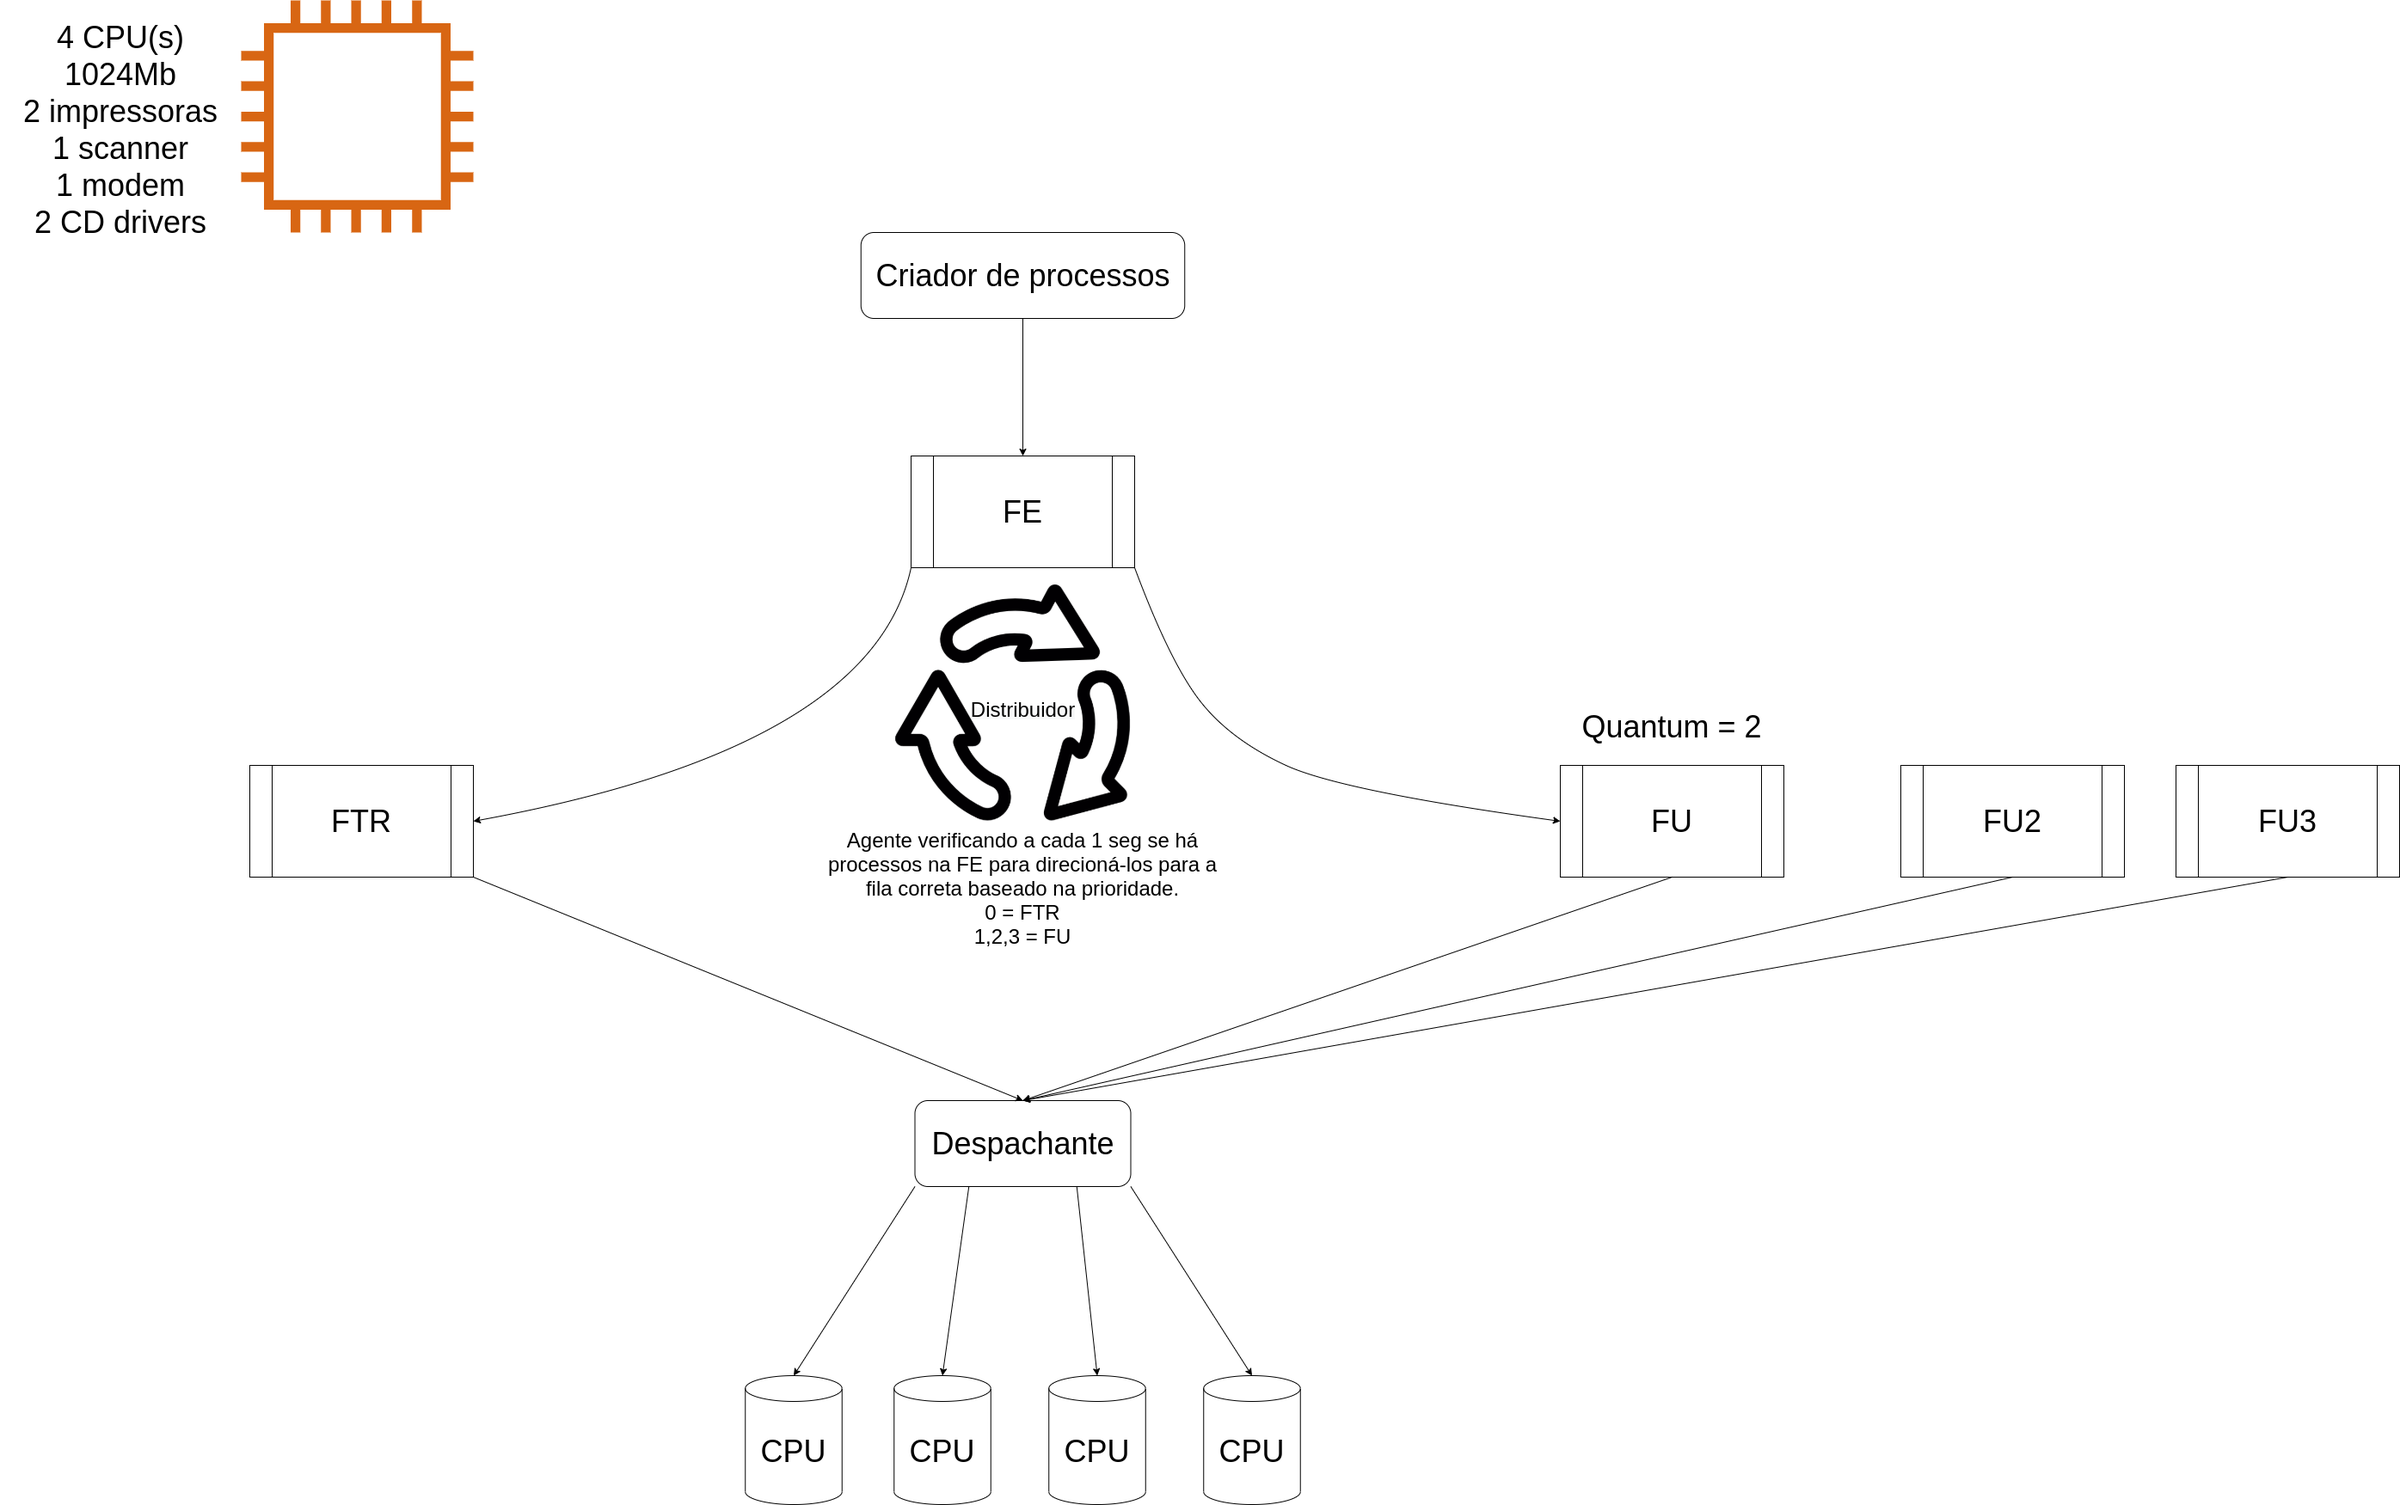
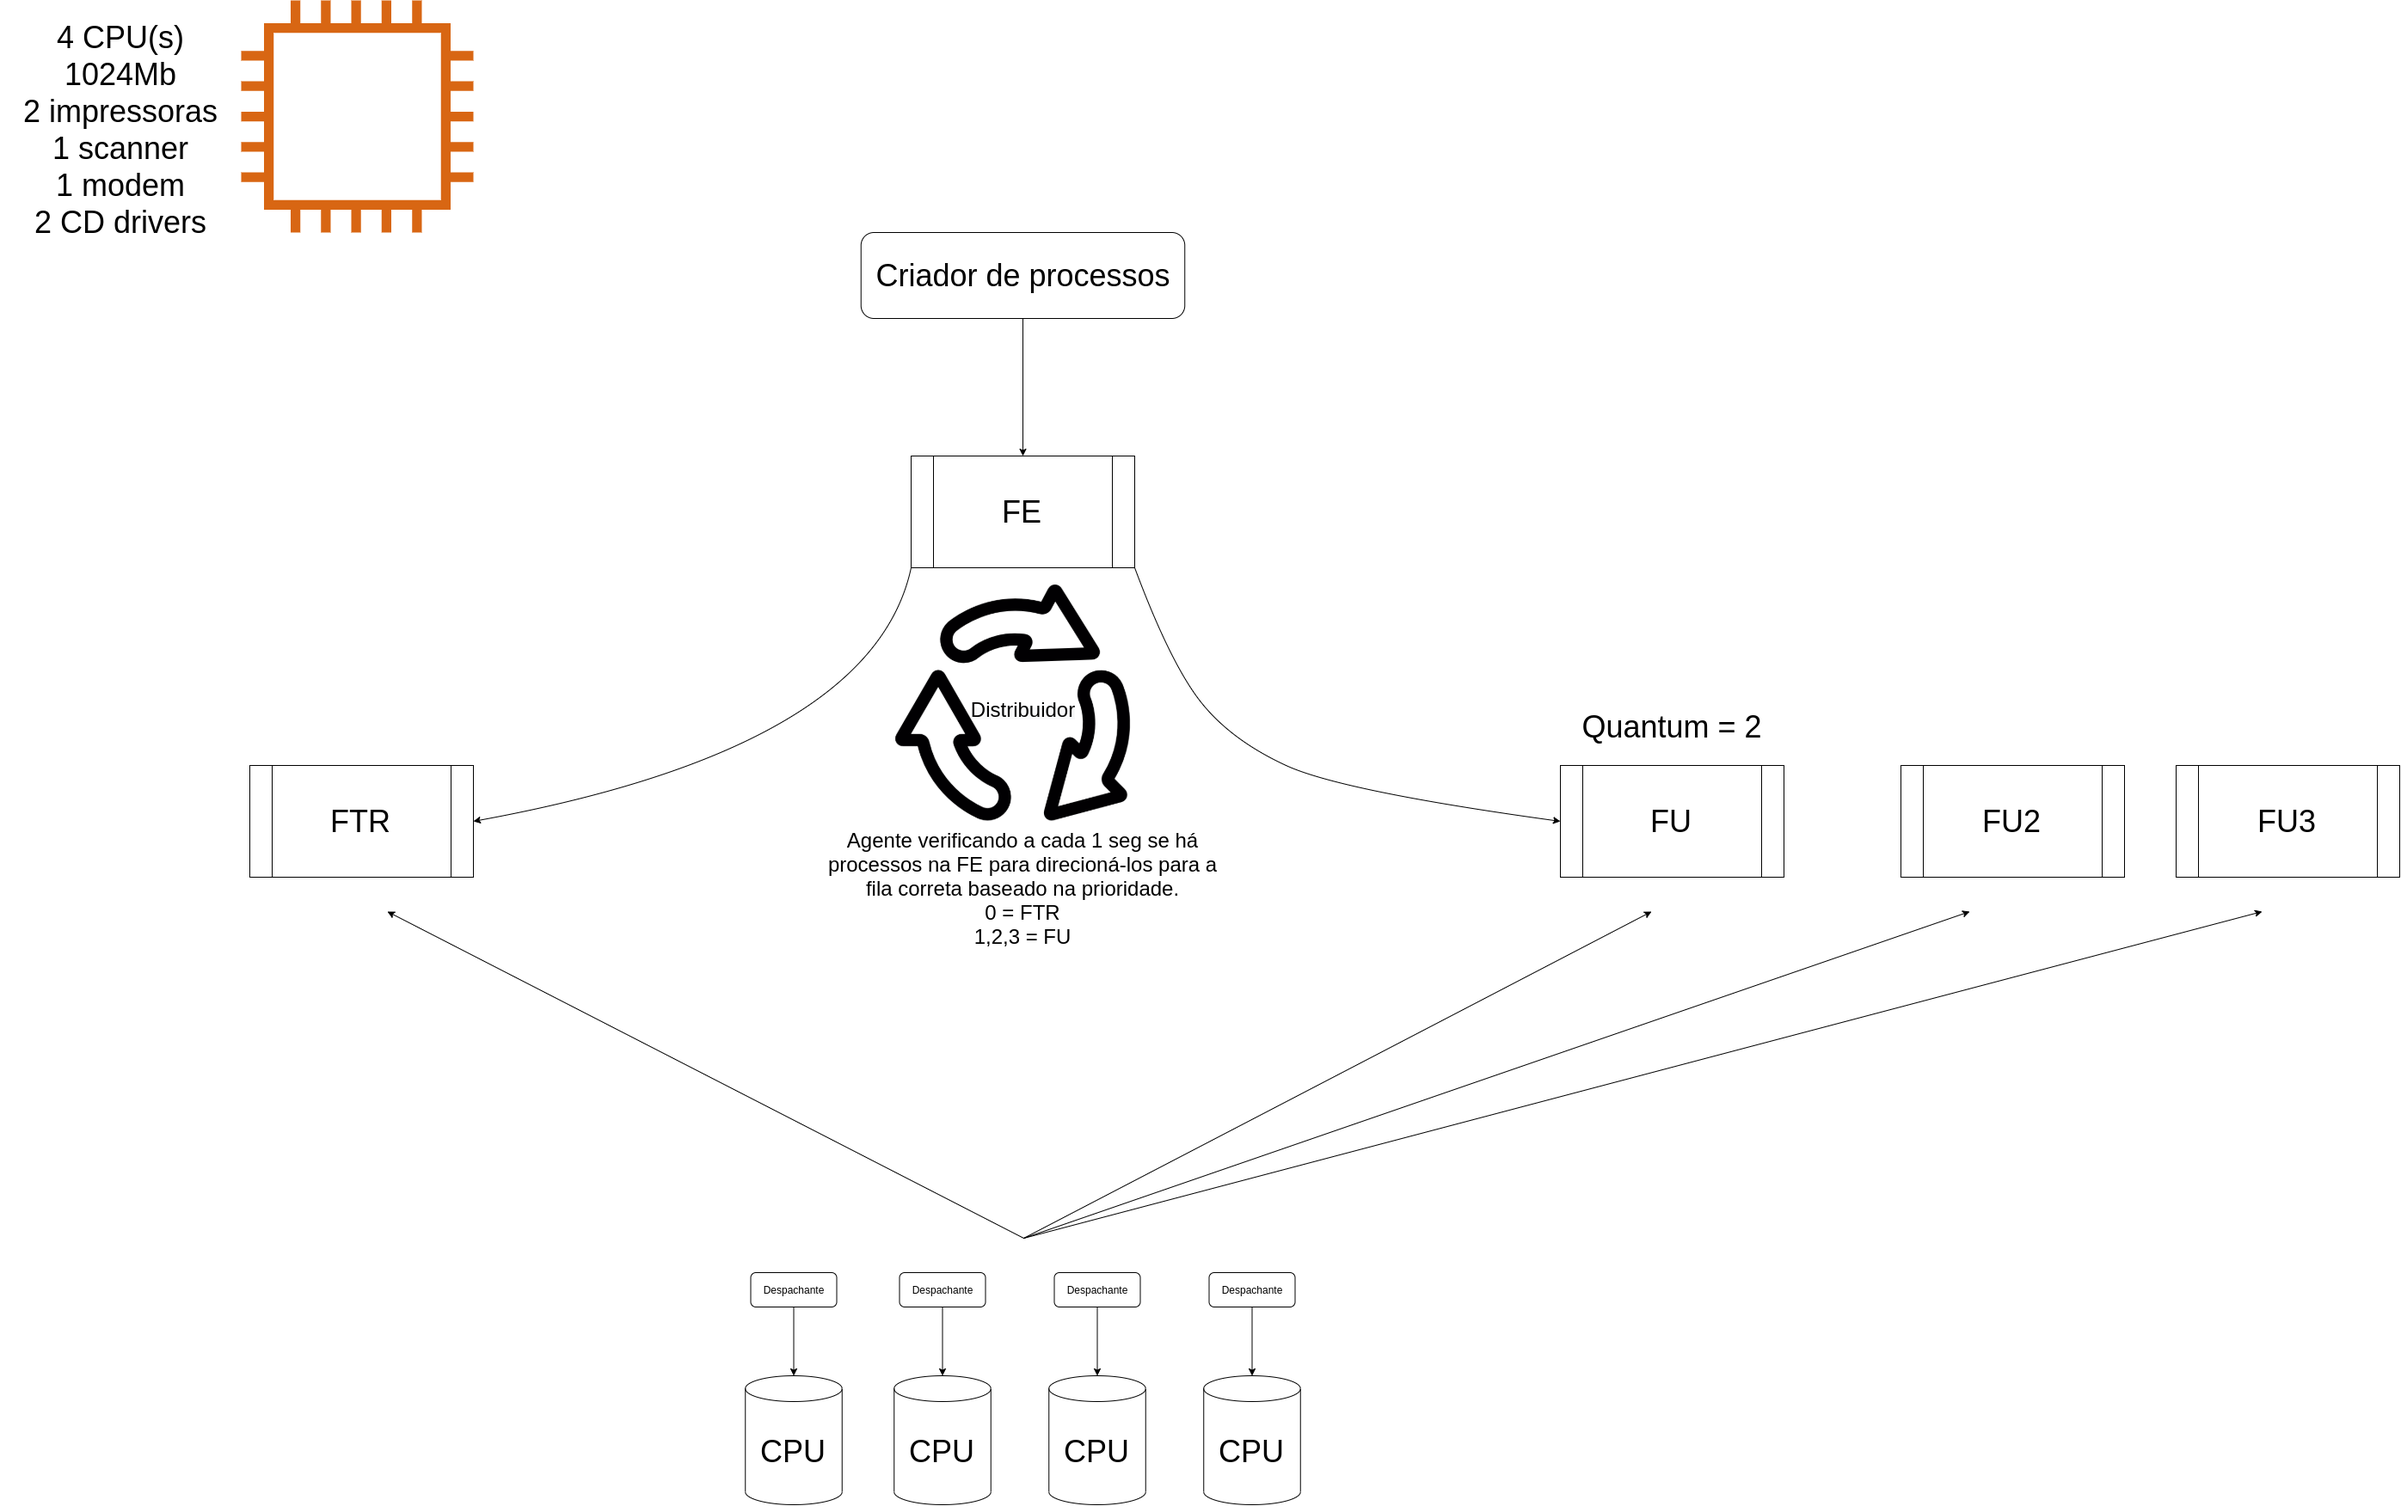
feat: Atualizando para vários dispatchers

diff --git a/software/app/resources/system/initializers.c b/software/app/resources/system/initializers.c
@@ -1,5 +1,10 @@
 void init_cpus() {
     CPUS = (CPU*)malloc(CPUS_TOTAL * sizeof(CPU));
+
+    unsigned int i;
+    for (i = 0; i < CPUS_TOTAL; i++) {
+        pthread_create(&CPUS[i].dispatcher_thread_id, NULL, dispatcher_watcher, NULL);
+    }
 }
 
 
@@ -38,12 +43,6 @@ void init_process_queues() {
 }
 
 
-void init_dispatcher_watcher() {
-    pthread_t thread_id;
-    pthread_create(&thread_id, NULL, dispatcher_watcher, NULL);
-}
-
-
 void init_distributor_watcher() {
     pthread_t thread_id;
     pthread_create(&thread_id, NULL, distributor_watcher, NULL);
@@ -72,6 +71,5 @@ void initializers() {
     init_scanners();
     init_process_queues();
     init_process_created();
-    init_dispatcher_watcher();
     init_distributor_watcher();
 }

diff --git a/software/app/resources/cpu.c b/software/app/resources/cpu.c
@@ -1,5 +1,6 @@
 typedef struct {
     unsigned long long int processId;
     boolean inUse;
+    pthread_t dispatcher_thread_id;
 } CPU;
 CPU* CPUS;
